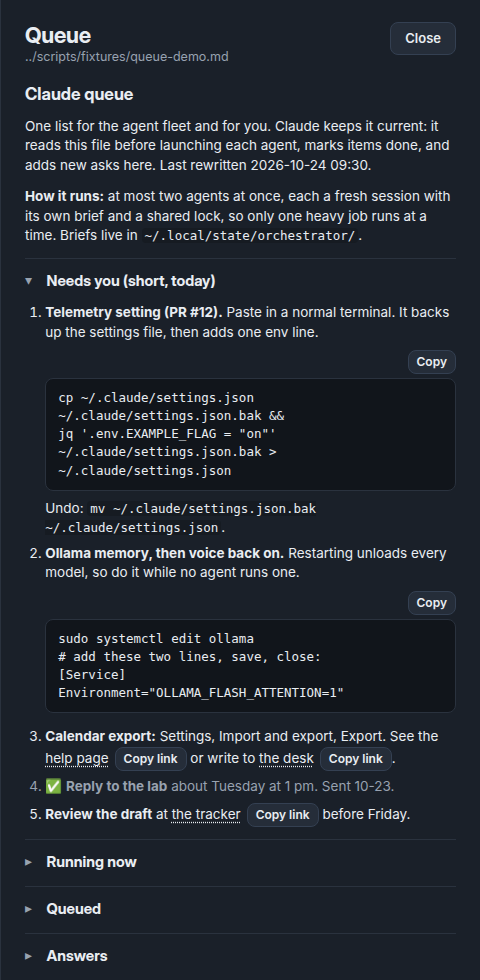
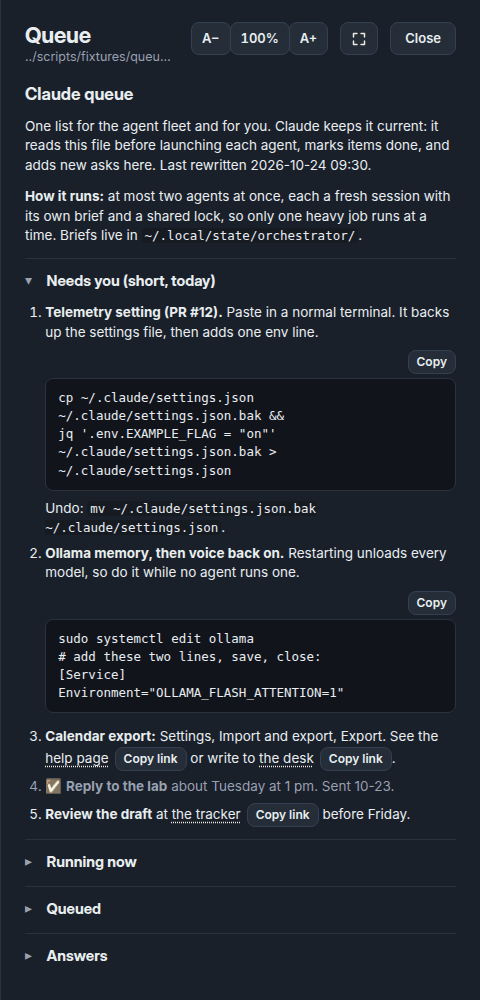
README: a wall hero and screenshots of each surface, from the demo fleet

diff --git a/scripts/readme-shots.py b/scripts/readme-shots.py
@@ -1,0 +1,173 @@
+"""The README's screenshots, captured from the real pages in a browser.
+
+Serves the repo root and opens the bar and the wall with the demo fixtures in
+scripts/fixtures/ (the wall's ?demo sample), so nothing private is on screen.
+Writes PNGs to assets/, cut to a 256-colour palette and recompressed, and
+prints each one's size. Run it after a change to what a screenshot shows:
+
+    uv run -q --no-project --with playwright --with pillow --with pyoxipng \
+      python -I scripts/readme-shots.py
+
+Needs Playwright's Chromium (`uvx playwright install chromium`), or a Chrome
+at $KLEPSYDRA_CHROME.
+"""
+
+import functools
+import http.server
+import json
+import os
+import pathlib
+import sys
+import threading
+import io
+import time
+
+import oxipng
+from PIL import Image
+from playwright.sync_api import sync_playwright
+
+ROOT = pathlib.Path(__file__).resolve().parent.parent
+OUT = ROOT / "assets"
+SETTLE_MS = 600  # past the wall's resize settle, arrivals and a frame
+
+
+class Quiet(http.server.SimpleHTTPRequestHandler):
+    def log_message(self, *args):
+        pass
+
+
+def accounts():
+    """Two accounts as the bar shows them: a personal session and week, and a
+    team session that reset a while ago."""
+    now = int(time.time())
+
+    def w(pct, reset_in):
+        return {"used_percentage": pct, "resets_at": now + reset_in}
+
+    def entry(key, label, windows):
+        return {"account": key, "label": label, "written_at": now, "observed_at": now, "windows": windows}
+
+    return json.dumps({
+        "pers": entry("pers", "Personal", {"five_hour": w(57, 480), "seven_day": w(27, 541_000)}),
+        "team": entry("team", "Team", {"five_hour": w(12, 9_000)}),
+    })
+
+
+def json_route(body):
+    return lambda r: r.fulfill(status=200, content_type="application/json", body=body)
+
+
+def wall(browser, port, width, height, query, density=None):
+    page = browser.new_page(viewport={"width": width, "height": height})
+    page.goto(f"http://127.0.0.1:{port}/src/wall.html?{query}")
+    page.wait_for_function("document.getElementById('wall').children.length > 0")
+    # The app shows + New session and Wrap up… in the bar; a browser hides them.
+    page.evaluate(
+        "document.getElementById('new-session').hidden = false;"
+        " document.getElementById('wrapup-open').hidden = false;"
+        " dispatchEvent(new Event('resize'))"
+    )
+    if density:
+        page.click(f".density label:has([value={density}])")
+    page.wait_for_timeout(SETTLE_MS)
+    return page
+
+
+# The page down to its lowest card, and a margin.
+CARDS = """() => ({x: 0, y: 0, width: innerWidth, height: Math.min(innerHeight,
+  Math.ceil(Math.max(...[...document.getElementById('wall').children]
+    .map((c) => c.getBoundingClientRect().bottom))) + 28)})"""
+
+
+def save(shot, name):
+    """Write `shot` (PNG bytes) to assets/NAME.png as a 256-colour palette."""
+    im = Image.open(io.BytesIO(shot)).convert("RGB")
+    pal = im.quantize(colors=256, method=Image.Quantize.MEDIANCUT, dither=Image.Dither.FLOYDSTEINBERG)
+    raw = io.BytesIO()
+    pal.save(raw, "PNG", optimize=True)
+    path = OUT / f"{name}.png"
+    path.write_bytes(oxipng.optimize_from_memory(raw.getvalue(), level=4))
+    print(f"{path.relative_to(ROOT)}: {im.width}x{im.height}, {path.stat().st_size // 1024} KiB")
+
+
+def bar(browser, port, width, height, query, fleet):
+    page = browser.new_page(viewport={"width": width, "height": height})
+    page.route("**/dev-fixture.json", json_route(accounts()))
+    page.route("**/dev-fleet.json", json_route(fleet))
+    page.goto(f"http://127.0.0.1:{port}/src/index.html?still=1{query}")
+    page.wait_for_selector("#rows > *")
+    if json.loads(fleet)["sessions"]:
+        page.wait_for_selector("#strip:not([hidden]) > *")
+    page.wait_for_timeout(SETTLE_MS)
+    # Down to the panel and the strip, whichever reaches further.
+    box = page.evaluate("""() => {
+      const r = [document.getElementById('panel'), document.getElementById('strip')]
+        .filter((e) => !e.hidden).map((e) => e.getBoundingClientRect());
+      return {x: 0, y: 0, width: Math.min(innerWidth, Math.ceil(Math.max(...r.map((b) => b.right))) + 8),
+              height: Math.min(innerHeight, Math.ceil(Math.max(...r.map((b) => b.bottom))) + 8)};
+    }""")
+    shot = page.screenshot(clip=box)
+    page.close()
+    return shot
+
+
+def main():
+    handler = functools.partial(Quiet, directory=str(ROOT))
+    server = http.server.ThreadingHTTPServer(("127.0.0.1", 0), handler)
+    port = server.server_address[1]
+    threading.Thread(target=server.serve_forever, daemon=True).start()
+    fleet = (ROOT / "scripts/fixtures/fleet-demo.json").read_text()
+    chrome = os.environ.get("KLEPSYDRA_CHROME")
+    with sync_playwright() as p:
+        browser = p.chromium.launch(executable_path=chrome) if chrome else p.chromium.launch()
+
+        # The bar as it sits on the taskbar: three rings, then the portraits.
+        save(bar(browser, port, 1100, 48, "&layout=compact", fleet), "compact-taskbar")
+        # The full layout: a row per window, then the portraits.
+        save(bar(browser, port, 1100, 160, "", fleet), "fleet-strip")
+        # Two accounts and no sessions.
+        save(bar(browser, port, 450, 160, "", json.dumps({"sessions": []})), "two-accounts")
+
+        # The wall maximised at 1920: eight cards, Comfortable.
+        page = wall(browser, port, 1920, 1000, "demo=8", "comfortable")
+        save(page.screenshot(clip=page.evaluate(CARDS)), "wall-comfortable")
+        page.close()
+
+        # Sixteen sessions, Compact.
+        page = wall(browser, port, 1920, 1000, "demo=16", "compact")
+        save(page.screenshot(clip=page.evaluate(CARDS)), "wall-compact")
+        page.close()
+
+        # Split mode: the wall in the left half beside the terminal.
+        page = wall(browser, port, 958, 1000, "demo=4", "comfortable")
+        save(page.screenshot(clip=page.evaluate(CARDS)), "wall-split")
+        page.close()
+
+        # The Ledger drawer.
+        page = wall(browser, port, 1920, 1000, "demo=8", "comfortable")
+        page.click("#ledger-open")
+        drawer = page.get_by_role("dialog", name="Ledger")
+        drawer.wait_for()
+        page.wait_for_timeout(SETTLE_MS)
+        save(drawer.screenshot(), "ledger")
+        page.close()
+
+        # The Queue panel, docked beside the wall.
+        page = wall(browser, port, 1920, 1000, "demo=8", "comfortable")
+        page.click("#queue-open")
+        page.wait_for_selector("#queue .queue-content details")
+        page.wait_for_timeout(SETTLE_MS)
+        save(page.locator("#queue").screenshot(), "queue-panel")
+        page.close()
+
+        # A wrap-up under way: each card says where its session stands.
+        page = wall(browser, port, 1920, 1000, "demo=8&wrapup", "comfortable")
+        save(page.screenshot(clip=page.evaluate(CARDS)), "wrap-up")
+        page.close()
+
+        browser.close()
+    server.shutdown()
+
+
+if __name__ == "__main__":
+    sys.exit(main())

diff --git a/README.md b/README.md
@@ -1,5 +1,5 @@
 <p align="center">
-  <img src="assets/hero.png" alt="klepsydra sitting over the Windows taskbar, showing 3% of the five-hour window used" width="520">
+  <img src="assets/wall-comfortable.png" alt="The fleet wall at 1920 px: eight session cards in two rows, each with a portrait, status, repo and branch, the last prompt and reply, and Open terminal; one card waits for approval, one shows an API error" width="900">
 </p>
 
 <h1 align="center">klepsydra</h1>
@@ -113,7 +113,7 @@ Each account publishes to its own file, so terminals on different logins never
 overwrite each other, and the overlay draws a labelled row for each:
 
 <p align="center">
-  <img src="assets/two-accounts.png" alt="Three rows: a personal session and week window, and a team session window, each separately labelled" width="450">
+  <img src="assets/two-accounts.png" alt="Three rows: Personal session 57% used, Personal week 27% used and Team session 12% used, each with its reset time" width="428">
 </p>
 
 With one account the rows drop the prefix and read "Current session" and "This
@@ -361,7 +361,7 @@ fleet strip beside it. Countdowns shorten ("4h 58m", "3d 11h"), and a
 reading more than 15 minutes old still says how old it is ("2h · 20m old").
 
 <p align="center">
-  <img src="assets/compact-taskbar.png" alt="The compact gauge inside the Windows taskbar: three rings with 12% and 4h 37m for the personal session, 20% and 6d 15h for the personal week, an empty ring with 0% and reset 2h ago for the team session, and five session portraits beside them" width="614">
+  <img src="assets/compact-taskbar.png" alt="The compact gauge at taskbar height: rings for 57% of the personal session with 7m to reset, 27% of the personal week with 6d 6h, 12% of the team session with 2h 29m, then sixteen session portraits with status badges" width="720">
 </p>
 
 Each layout keeps its own size from the handle, since compact is sized to the
@@ -387,7 +387,7 @@ is revealed.
 ## The fleet strip
 
 <p align="center">
-  <img src="assets/fleet-strip.png" alt="The gauge's three account rows, and beside them fifteen session portraits: three with orange needs-you diamonds first, then a vermillion error square, three blue working circles, four green done checks, and grey rings for sessions not started or ended" width="670">
+  <img src="assets/fleet-strip.png" alt="The gauge's three account rows (57%, 27% and 12% used, each with its reset time), and beside them sixteen session portraits, each with a badge for its status" width="760">
 </p>
 
 With several Claude Code sessions open, klepsydra shows a portrait for each to
@@ -549,6 +549,10 @@ session is still running a few seconds after `/exit` was sent.
 ### Wrapping up
 
 <!-- budget: 320 words -->
+<p align="center">
+  <img src="assets/wrap-up.png" alt="The wall during a wrap-up: the bar says 1 of 8 ready, and each card has a line for where its session stands, such as Wrapping up, Ready, Answer it first or Ask by hand" width="900">
+</p>
+
 **Wrap up…**, beside Ledger, asks the live sessions to checkpoint, record
 what still runs, commit their handoff and report whether stopping is safe. A dialog lists who
 is asked and how, with Cancel focused, and only those sessions are asked.
@@ -582,7 +586,7 @@ klepsydra's tmux, which you end yourself.
 ### Card density
 
 The control beside **+ New session** picks the card density: **Auto** (the
-default), **Comfortable** or **Compact**. Comfortable is the card above:
+default), **Comfortable** or **Compact**. Comfortable is the wall at the top of this page:
 four fit the wall in split mode (2x2, about 945 to 958x1000 of content) and
 eight fit it maximised (4x2, about 1920x1000) with no scrollbar, as the
 browser test measures them: every card waiting on you to approve a long
@@ -611,7 +615,15 @@ still fit with one more card, so a session ending and another starting at the
 boundary leaves the wall as it is. The choice is saved as `wall_density` in
 `prefs.json`.
 
+<p align="center">
+  <img src="assets/wall-compact.png" alt="The wall in Compact at 1920 px: sixteen smaller cards in four rows, each with its round portrait, status, place, and last exchange cut to one line" width="900">
+</p>
+
 ### Split mode
+
+<p align="center">
+  <img src="assets/wall-split.png" alt="The wall at split width, 958 px: four Comfortable cards in a 2x2 grid with the bar's counts, Ledger, Queue and Wrap up buttons above" width="480">
+</p>
 
 On Windows, **Split** (beside **Ledger**; its full name is "Split with
 terminal") puts the wall on the
@@ -842,6 +854,10 @@ mark in `src-tauri/icons/`.
 
 ### The ledger
 
+<p align="center">
+  <img src="assets/ledger.png" alt="The Ledger drawer: totals for today (tokens, input, output, cache, lines, commits, pull requests, active time), tokens by character as bars, and tokens by model with the list-price estimate" width="420">
+</p>
+
 With the `env` block above, every Claude Code session sends its
 OpenTelemetry metrics and events to klepsydra, which counts them per session:
 tokens by type, lines added and removed, commits and pull requests, active
@@ -979,7 +995,7 @@ one on a Windows drive (`/mnt/c/...`) shows within a second or two. An older `qu
 works when there is no `queue.json`.
 
 <p align="center">
-  <img src="assets/queue-panel.png" alt="The Queue panel docked to the right of the card wall: the file's title and intro, a Needs you section open with numbered asks, two code blocks each with a Copy button, links with Copy link buttons, a done ask in quieter text, and folded Running now, Queued and Answers sections" width="360">
+  <img src="assets/queue-panel.png" alt="The Queue panel as it docks beside the wall: text size and full-screen buttons, then the file's title and intro, a Needs you section open with numbered asks, two code blocks each with a Copy button, links with Copy link buttons, a done ask in quieter text, and folded Running now, Queued and Answers sections" width="360">
 </p>
 
 - **Live.** klepsydra watches the file's folder and re-reads the file a

diff --git a/.claude/skill-context.md b/.claude/skill-context.md
@@ -116,6 +116,8 @@ files belong to: the JS guards scan hooks and scripts too.
 - `scripts/cut-portraits.py`: recuts the committed kourai portraits; needs
   kourai-khryseai and Pillow through `uv`.
 - `scripts/measure-memory.sh run`: takes 8 hours.
+- `scripts/readme-shots.py`: rewrites the README's screenshots in `assets/`;
+  run it when what a screenshot shows changes, not as a test.
 - `scripts/build-windows.sh` — rsyncs to `C:\Users\<user>\klepsydra-build` and
   drives `powershell.exe`; produces an NSIS installer and takes minutes.
   `KLEPSYDRA_STAGE=klepsydra-build-<name>` stages a branch in its own folder.
